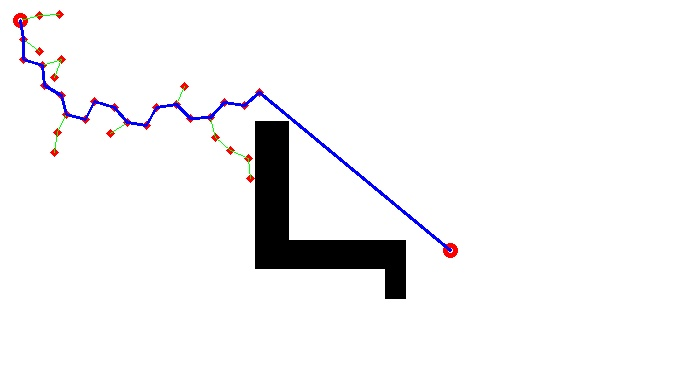
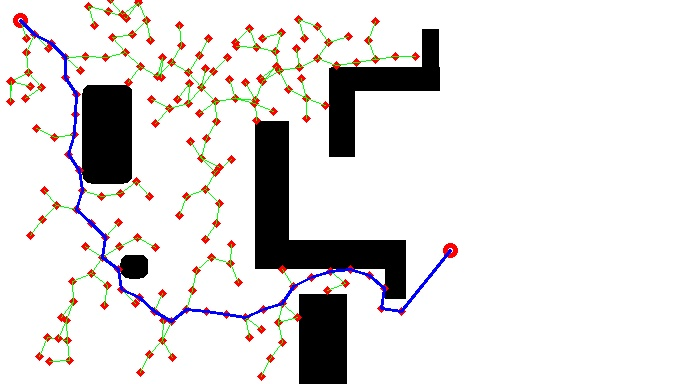
readme updt

diff --git a/rrt.py b/rrt.py
@@ -82,8 +82,8 @@ def rnd_point():
 
 
 # loading the maze
-img = cv2.imread('world.png',0) # load grayscale image
-img2 = cv2.imread('world.png',1)
+img = cv2.imread('world2.png',0) # load grayscale image
+img2 = cv2.imread('world2.png',1)
 start = (20,20) # starting coordinate
 end = (450,250) # target coordinate
 stepSize = 20 # stepsize for RRT
@@ -130,10 +130,11 @@ while pathFound==False:
         cv2.line(img2, (int(tx),int(ty)), (end[0],end[1]), (255,0,0), thickness=2, lineType=8)
 
         print("Path has been found")
-        print("path_x",node_list[i].path_x)
+        #print("path_x",node_list[i].path_x)
         for j in range(len(node_list[i].path_x)-1):
             cv2.line(img2, (int(node_list[i].path_x[j]),int(node_list[i].path_y[j])), (int(node_list[i].path_x[j+1]),int(node_list[i].path_y[j+1])), (255,0,0), thickness=2, lineType=8)
-        cv2.waitKey(1)
+        # cv2.waitKey(1)
+        cv2.imwrite("media/"+str(i)+".jpg",img2)
         cv2.imwrite("out.jpg",img2)
         break
 
@@ -151,6 +152,7 @@ while pathFound==False:
         # display
         cv2.circle(img2, (int(tx),int(ty)), 2,(0,0,255),thickness=3, lineType=8)
         cv2.line(img2, (int(tx),int(ty)), (int(node_list[nearest_ind].x),int(node_list[nearest_ind].y)), (0,255,0), thickness=1, lineType=8)
+        cv2.imwrite("media/"+str(i)+".jpg",img2)
         cv2.imshow("sdc",img2)
         cv2.waitKey(1)
         continue

diff --git a/README.md b/README.md
@@ -1,3 +1,5 @@
 # RRT
 
+![RRT](media/rrt.gif)
+
 For more info visit the [blog](https://nimrobotics.github.io/jekyll/update/2019/12/23/rrt.html)
